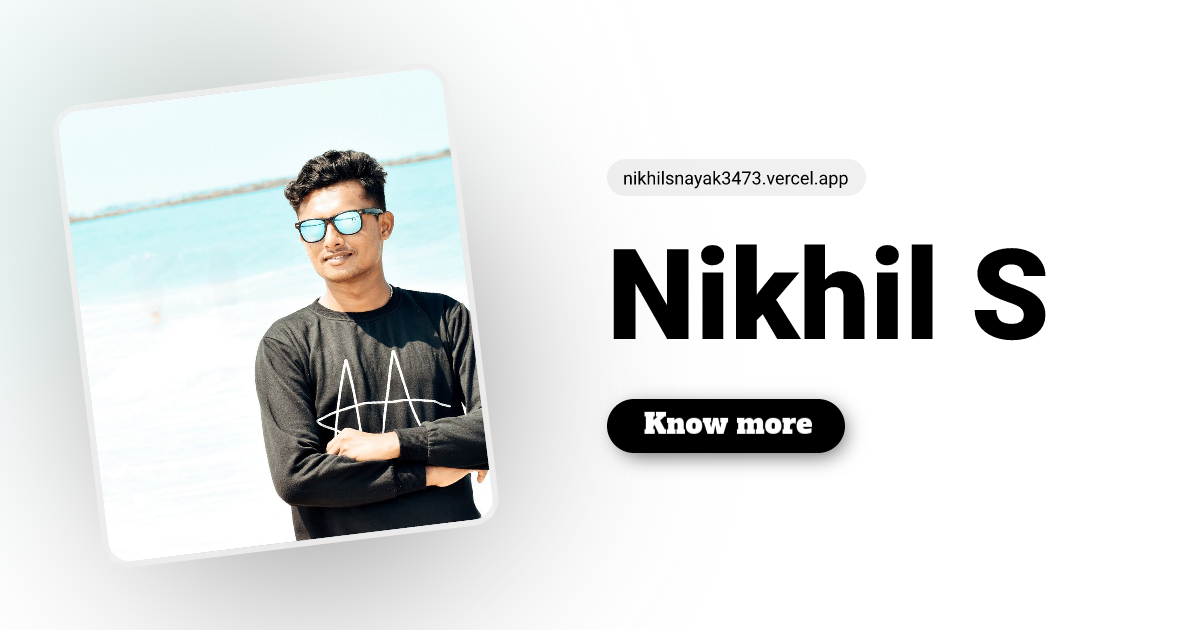
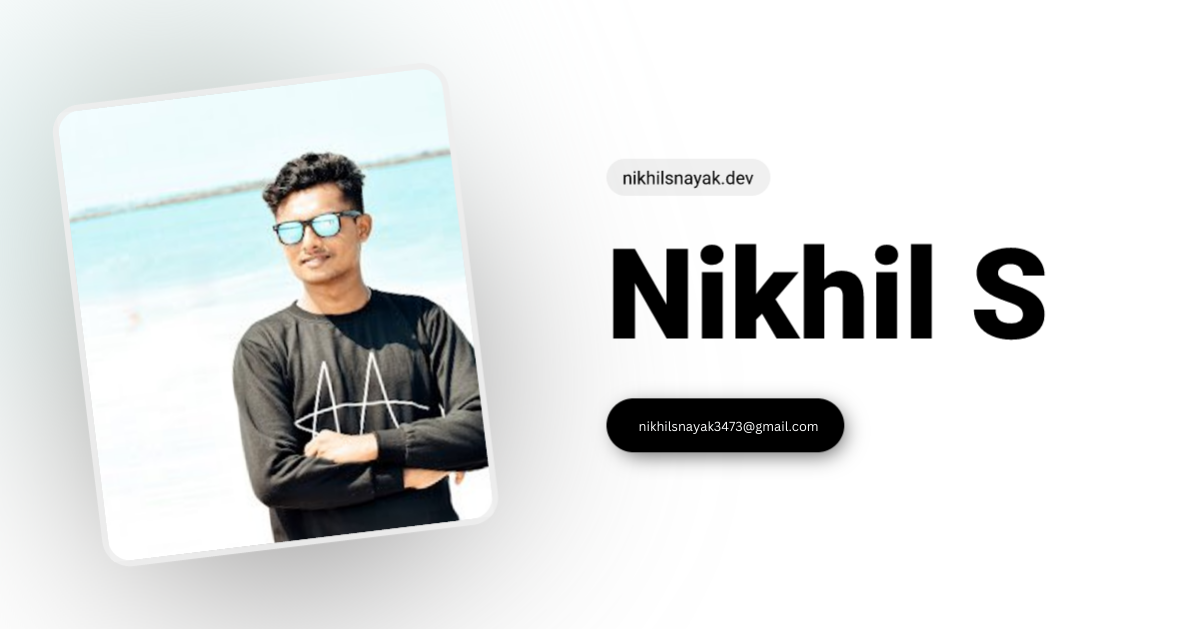
fix: sitemap.xml

diff --git a/app/layout.tsx b/app/layout.tsx
@@ -1,3 +1,4 @@
+import './globals.css';
 import type { Metadata } from 'next';
 import { SpeedInsights } from '@vercel/speed-insights/next';
 import { Analytics } from '@vercel/analytics/react';
@@ -8,7 +9,6 @@ import { Footer } from '@/components/layout/footer';
 import { Toaster } from '@/components/ui/sonner';
 import { ThemeProvider } from '@/providers/theme-provider';
 import { cn } from '@/lib/utils';
-import './globals.css';
 
 export const metadata: Metadata = {
   title: {
@@ -16,11 +16,11 @@ export const metadata: Metadata = {
     template: '%s | Nikhil S - nikhilsnayak',
   },
   description: 'Software Engineer from India',
-  metadataBase: new URL('https://nikhilsnayak.vercel.app'),
+  metadataBase: new URL('https://nikhilsnayak.dev'),
   openGraph: {
     title: 'Nikhil S - nikhilsnayak',
     description: 'Software Engineer from India',
-    url: 'https://nikhilsnayak.vercel.app',
+    url: 'https://nikhilsnayak.dev',
     siteName: 'Nikhil S - nikhilsnayak',
     locale: 'en_US',
     type: 'website',
@@ -39,9 +39,6 @@ export const metadata: Metadata = {
   twitter: {
     title: 'Nikhil S - nikhilsnayak',
     card: 'summary_large_image',
-  },
-  verification: {
-    google: 'Ako36nekKPve0mWwGE-aLy1f_0bPXoqbK2sQhoAitEg',
   },
 };
 

diff --git a/app/robots.ts b/app/robots.ts
@@ -5,7 +5,7 @@ export default function robots() {
         userAgent: '*',
       },
     ],
-    sitemap: 'https://nikhilsnayak3473.vercel.app/sitemap.xml',
-    host: 'https://nikhilsnayak3473.vercel.app',
+    sitemap: 'https://nikhilsnayak.dev/sitemap.xml',
+    host: 'https://nikhilsnayak.dev',
   };
 }

diff --git a/app/sitemap.ts b/app/sitemap.ts
@@ -1,6 +1,6 @@
 export default async function sitemap() {
   const routes = ['', '/work', '/bot'].map((route) => ({
-    url: `https://nikhilsnayak3473.vercel.app${route}`,
+    url: `https://nikhilsnayak.dev${route}`,
     lastModified: new Date().toISOString().split('T')[0],
   }));
 
